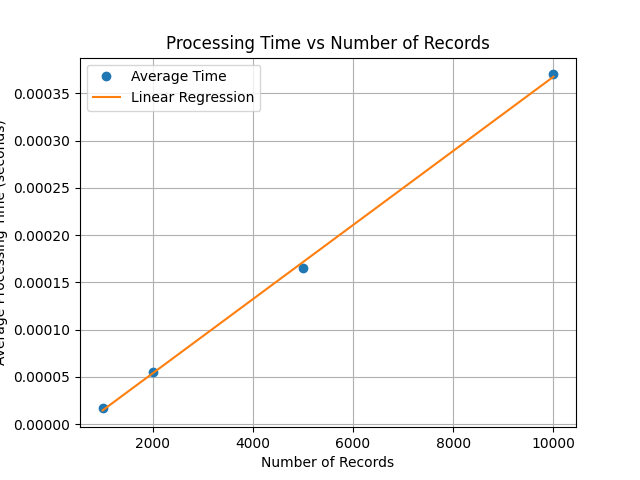
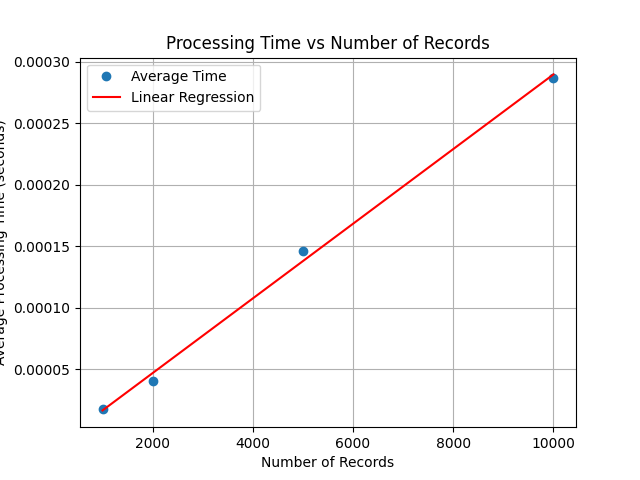
changing line color

diff --git a/ex3.2.py b/ex3.2.py
@@ -38,7 +38,7 @@ def generate_regression_plot(record_sizes, average_times):
     polynomial = np.poly1d(coefficients)
     
     plt.plot(record_sizes, average_times, 'o', label='Average Time')
-    plt.plot(record_sizes, polynomial(record_sizes), label='Linear Regression')
+    plt.plot(record_sizes, polynomial(record_sizes), label='Linear Regression', color = 'red')
     plt.xlabel('Number of Records')
     plt.ylabel('Average Processing Time (seconds)')
     plt.title('Processing Time vs Number of Records')
